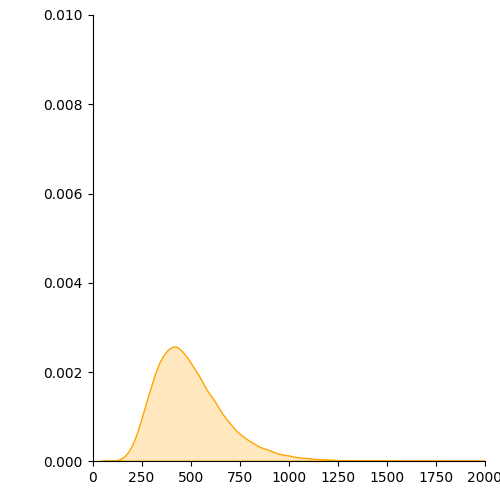
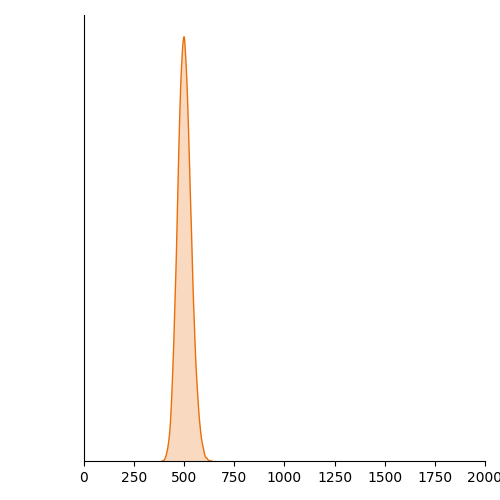
Fix problem with distribution plot not showing disrupted curve after disruption event

diff --git a/utk-games/disruption/sections.html b/utk-games/disruption/sections.html
@@ -53,7 +53,7 @@
                 <!-- Add a slider -->
                 <!-- <input type="range" name="mySlider" id=mySlider min="10" max="100" value="50"> -->
                 <div id="distribution-curve">
-                    {{ if is_disruption_this_round }}
+                    {{ if is_disrupted }}
                         <img src="{{ static disrupted_distribution_png }}"/>
                     {{ else }}
                         <img src="{{ static distribution_png }}"/>

diff --git a/utk-games/disruption/Welcome.html b/utk-games/disruption/Welcome.html
@@ -4,8 +4,8 @@
 
 {{ block content }}
 
-    {# <img src="{{ static disrupted_distribution_png }}"/>
-    <img src="{{ static distribution_png }}"/> #}
+    {# <img src="{{ static disrupted_distribution_png }}"/> #}
+    {# <img src="{{ static distribution_png }}"/> #}
 
     {{ include Constants.style_template }}
     {{ include Constants.sections_template }}

diff --git a/utk-games/disruption/treatment.py b/utk-games/disruption/treatment.py
@@ -5,7 +5,8 @@ from enum import Enum
 from functools import lru_cache
 from itertools import product
 from pathlib import Path
-from typing import AbstractSet, Any, Callable, Dict, List, Mapping, Optional, Tuple, Union
+from typing import (AbstractSet, Any, Callable, Dict, List, Mapping, Optional,
+                    Tuple, Union)
 
 import numpy as np
 import scipy.stats as stats
@@ -54,8 +55,8 @@ class DisributionParameters(PydanticModel):
         return DisributionParameters(mu=mu, sigma=sigma)
 
 
-TREATMENT_GROUPS = list(product(["high", "low"], [True, False]))
-# TREATMENT_GROUPS = list(product(["high", "high"], [True, True]))
+# TREATMENT_GROUPS = list(product(["high", "low"], [True, False]))
+TREATMENT_GROUPS = list(product(["low", "high"], [True, True]))
 
 
 class Treatment(PydanticModel):
@@ -66,6 +67,7 @@ class Treatment(PydanticModel):
     _demand_rvs: List[float] = []
     _png_file: Path = None
     _disrupted_png_file: Path = None
+    _disrupted: bool = False
 
     class Config:
         extra = Extra.allow
@@ -85,6 +87,9 @@ class Treatment(PydanticModel):
     @classmethod
     def from_json(cls, json: StrBytes) -> "Treatment":
         return Treatment.parse_raw(json)
+
+    def is_disrupted(self):
+        return self._disrupted
 
     def get_optimal_order_quantity(self) -> float:
         rcpu, wcpu, hcpu = self.get_unit_costs().tuple()
@@ -115,6 +120,7 @@ class Treatment(PydanticModel):
 
         mu, sigma = self.get_distribution_parameters().tuple()
         if disrupt:
+            self._disrupted = True
             ## transform mu & sigma
             self._mu *= 1
             self._sigma *= 2
@@ -127,6 +133,7 @@ class Treatment(PydanticModel):
         self._sigma = None
         self._demand_rvs = []
         _ = self.get_demand_rvs(size=size)
+        self._disrupted = False
 
     def save_distribution_plots(self) -> Tuple[Path, Path]:
         """Returns two file paths: file path of regular disruption plot & file path of disrupted disruption plot."""
@@ -153,21 +160,37 @@ class Treatment(PydanticModel):
 
         color = "#eb6e08"
         try:
-            # regular distribution
-            rvs = self.get_demand_rvs(size=int(1e5))
-            sns.displot(rvs, color=color, kind="kde", fill=True)
-            ymax = plt.gca().get_ylim()[1]
-            plt.ylim(0, max(0.01, min(ymax, 1)))
-            plt.xlim((0, min(2000, max(rvs))))
+            rvs_regular = self.get_demand_rvs(size=int(1e5))
+            rvs_disrupted = self.get_demand_rvs(size=int(1e5), disrupt=True)
+
+            ## get sensible axis limits
+
+            # yaxis max
+            sns.displot(rvs_regular, color=color, kind="kde", fill=True)
+            ymax_regular = plt.gca().get_ylim()[1]
+            plt.cla()
+            sns.displot(rvs_disrupted, color=color, kind="kde", fill=True)
+            ymax_disrupted = plt.gca().get_ylim()[1]
+            plt.cla()
+            ymax = max(0.01, ymax_regular, ymax_disrupted)
+
+            # xaxis max
+            # xmax = max(rvs_regular + rvs_disrupted)
+            xmax = 2000
+
+            # plot regular distribution
+            sns.displot(rvs_regular, color=color, kind="kde", fill=True)
+            plt.xlim((0, 2000 if xmax > 2000 else xmax))
+            plt.ylim(0, ymax)
+            plt.yticks([])
             plt.ylabel(None)
             plt.savefig(png_file)
 
-            # disrupted distribution
-            rvs = self.get_demand_rvs(size=int(1e5), disrupt=True)
-            sns.displot(rvs, color=color, kind="kde", fill=True)
-            ymax = plt.gca().get_ylim()[1]
-            plt.ylim(0, max(0.01, min(ymax, 1)))
-            plt.xlim((0, min(2000, max(rvs))))
+            # plot disrupted distribution
+            sns.displot(rvs_disrupted, color=color, kind="kde", fill=True)
+            plt.xlim((0, 2000 if xmax > 2000 else xmax))
+            plt.ylim(0, ymax)
+            plt.yticks([])
             plt.ylabel(None)
             plt.savefig(disrupted_png_file)
 
@@ -175,10 +198,7 @@ class Treatment(PydanticModel):
             return self._png_file, self._disrupted_png_file
         finally:
             # reset self params to provided values
-            if _mu and _sigma and _demand_rvs and (_mu != self._mu or _sigma != self._sigma):
-                self._mu, self._sigma, self._demand_rvs = _mu, _sigma, _demand_rvs
-            else:
-                self.reset()
+            self.reset()
 
 
 @lru_cache(maxsize=5)

diff --git a/utk-games/disruption/pages.py b/utk-games/disruption/pages.py
@@ -86,6 +86,7 @@ def vars_for_template(player: Player) -> dict:
         else None,
         distribution_png=as_static_path(distribution_png),
         disrupted_distribution_png=as_static_path(distribution_png if player.game_number == 1 and not treatment.disruption_choice else disrupted_distribution_png),
+        is_disrupted=treatment.is_disrupted(),
         is_disruption_this_round=is_disruption_this_round(player),
         is_disruption_next_round=is_disruption_next_round(player),
         is_game_over=is_game_over(player.round_number),

diff --git a/utk-games/shorthorizon/treatment.py b/utk-games/shorthorizon/treatment.py
@@ -145,6 +145,7 @@ class Treatment(PydanticModel):
         ymax = plt.gca().get_ylim()[1]
         plt.ylim(0, max(0.01, min(ymax, 1)))
         plt.xlim((0, min(2000, max(rvs))))
+        plt.yticks([])
         plt.ylabel(None)
         plt.savefig(png_file)
 
